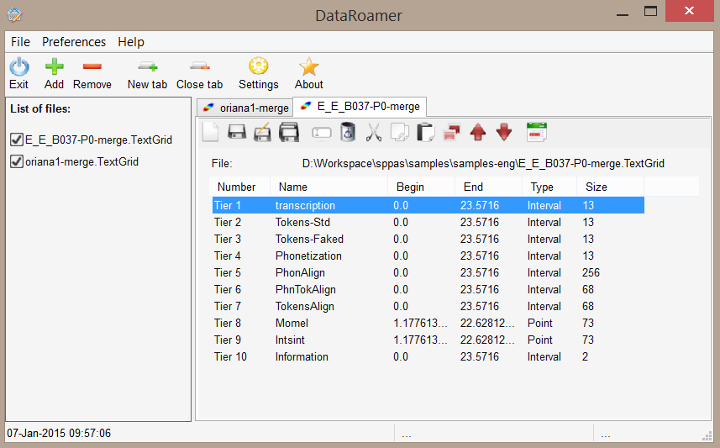
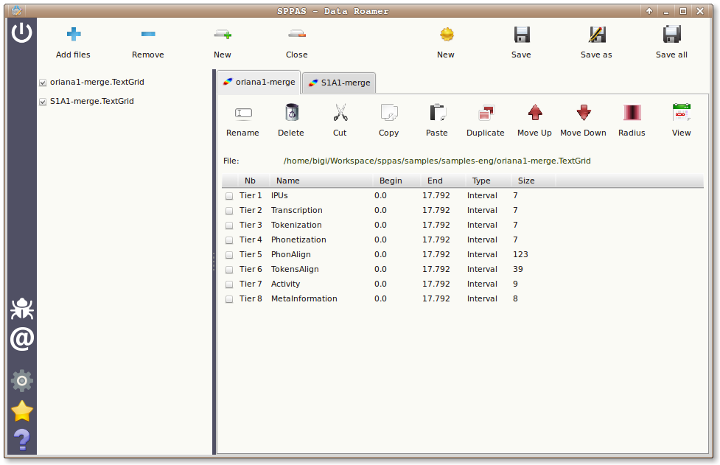
DataRoamer: bug correction.

Changed region(s): [[0.0, 0.0, 1.0, 1.0]]

diff --git a/sppas/src/wxgui/clients/dataroamerclient.py b/sppas/src/wxgui/clients/dataroamerclient.py
@@ -59,15 +59,13 @@ from wxgui.sp_icons import TIER_MOVE_DOWN
 from wxgui.sp_icons import TIER_PREVIEW
 from wxgui.sp_icons import TIER_RADIUS
 
-from wxgui.sp_consts import TB_ICONSIZE
-from wxgui.sp_consts import TB_FONTSIZE
-
 from wxgui.ui.CustomEvents  import FileWanderEvent, spEVT_FILE_WANDER
 from wxgui.ui.CustomEvents  import spEVT_PANEL_SELECTED
 from wxgui.ui.CustomEvents  import spEVT_SETTINGS
 
-from baseclient              import BaseClient
-from wxgui.panels.trslist    import TrsList
+from baseclient               import BaseClient
+from wxgui.panels.trslist     import TrsList
+from wxgui.panels.mainbuttons import MainToolbarPanel
 from wxgui.structs.files     import xFiles
 from wxgui.structs.prefs     import Preferences
 from wxgui.structs.themes    import BaseTheme
@@ -199,6 +197,7 @@ class DataRoamer( scrolled.ScrolledPanel ):
         self._selection  = None # the index of the selected trsdata panel
 
         self._prefsIO = self._check_prefs(prefsIO)
+        self.SetBackgroundColour(prefsIO.GetValue('M_BG_COLOUR'))
 
         # imitate the behavior of a toolbar, with buttons
         toolbar = self._create_toolbar()
@@ -212,6 +211,7 @@ class DataRoamer( scrolled.ScrolledPanel ):
         self.Bind(spEVT_PANEL_SELECTED, self.OnPanelSelection)
         self.Bind(spEVT_FILE_WANDER,    self.OnFileWander)
         self.Bind(spEVT_SETTINGS,       self.OnSettings)
+        self.Bind(wx.EVT_BUTTON,        self.ProcessEvent)
 
         self.SetSizer(sizer)
         self.SetAutoLayout( True )
@@ -249,33 +249,19 @@ class DataRoamer( scrolled.ScrolledPanel ):
 
     def _create_toolbar(self):
         """ Creates a toolbar panel. """
-        # Define the size of the icons and buttons
-        iconSize = (TB_ICONSIZE, TB_ICONSIZE)
 
-        toolbar = wx.ToolBar( self, -1 )
-        # Set the size of the buttons
-        toolbar.SetToolBitmapSize(iconSize)
-        toolbar.SetFont(wx.Font(TB_FONTSIZE, wx.DEFAULT, wx.NORMAL, wx.NORMAL))
+        toolbar = MainToolbarPanel(self, self._prefsIO)
+        toolbar.AddButton( RENAME_ID,    TIER_RENAME,   'Rename', tooltip="Rename the selected tier.")
+        toolbar.AddButton( wx.ID_DELETE, TIER_DELETE,   'Delete', tooltip="Delete the selected tier.")
+        toolbar.AddButton( wx.ID_CUT,    TIER_CUT,      'Cut',    tooltip="Cut the selected tier.")
+        toolbar.AddButton( wx.ID_COPY,   TIER_COPY,     "Copy",   tooltip="Copy the selected tier.")
+        toolbar.AddButton( wx.ID_PASTE,  TIER_PASTE,    "Paste",  tooltip="Paste the selected tier.")
+        toolbar.AddButton( DUPLICATE_ID, TIER_DUPLICATE,"Duplicate", tooltip="Duplicate the selected tier.")
+        toolbar.AddButton( wx.ID_UP,     TIER_MOVE_UP,  "Move Up",   tooltip="Move up the selected tier.")
+        toolbar.AddButton( wx.ID_DOWN,   TIER_MOVE_DOWN,"Move Down", tooltip="Move down the selected tier.")
 
-        toolbar.AddLabelTool(RENAME_ID,    'Rename',    spBitmap(TIER_RENAME, TB_ICONSIZE, theme=self._prefsIO.GetValue('M_ICON_THEME')),    shortHelp="Rename the selected tier")
-        toolbar.AddLabelTool(wx.ID_DELETE, 'Delete',    spBitmap(TIER_DELETE, TB_ICONSIZE, theme=self._prefsIO.GetValue('M_ICON_THEME')),    shortHelp="Delete the selected tier")
-        toolbar.AddLabelTool(wx.ID_CUT,    'Cut',       spBitmap(TIER_CUT,    TB_ICONSIZE, theme=self._prefsIO.GetValue('M_ICON_THEME')),    shortHelp="Cut the selected tier")
-        toolbar.AddLabelTool(wx.ID_COPY,   'Copy',      spBitmap(TIER_COPY,   TB_ICONSIZE, theme=self._prefsIO.GetValue('M_ICON_THEME')),    shortHelp="Copy the selected tier")
-        toolbar.AddLabelTool(wx.ID_PASTE,  'Paste',     spBitmap(TIER_PASTE,  TB_ICONSIZE, theme=self._prefsIO.GetValue('M_ICON_THEME')),    shortHelp="Paste the selected tier")
-        toolbar.AddLabelTool(DUPLICATE_ID, 'Duplicate', spBitmap(TIER_DUPLICATE, TB_ICONSIZE, theme=self._prefsIO.GetValue('M_ICON_THEME')), shortHelp="Duplicate the selected tier")
-        toolbar.AddLabelTool(wx.ID_UP,     'Move Up',   spBitmap(TIER_MOVE_UP,   TB_ICONSIZE, theme=self._prefsIO.GetValue('M_ICON_THEME')), shortHelp="Move up the selected tier")
-        toolbar.AddLabelTool(wx.ID_DOWN,   'Move Down', spBitmap(TIER_MOVE_DOWN, TB_ICONSIZE, theme=self._prefsIO.GetValue('M_ICON_THEME')), shortHelp="Move down the selected tier")
-        toolbar.AddSeparator()
-        toolbar.AddLabelTool(TIER_RADIUS_ID, 'Radius', spBitmap(TIER_RADIUS, TB_ICONSIZE, theme=self._prefsIO.GetValue('M_ICON_THEME')), shortHelp="Fix the vagueness of each boundary. Efficient only while saving file in .xra format.")
-        toolbar.AddSeparator()
-        toolbar.AddLabelTool(PREVIEW_ID,   'View',      spBitmap(TIER_PREVIEW, TB_ICONSIZE, theme=self._prefsIO.GetValue('M_ICON_THEME')),   shortHelp="Preview of the selected tier")
-
-        toolbar.Realize()
-
-        # events
-        eventslist = [ RENAME_ID, wx.ID_DELETE, wx.ID_CUT, wx.ID_COPY, wx.ID_PASTE, DUPLICATE_ID, wx.ID_UP, wx.ID_DOWN, PREVIEW_ID, TIER_RADIUS_ID ]
-        for event in eventslist:
-            wx.EVT_TOOL(self, event, self.ProcessEvent)
+        toolbar.AddButton( TIER_RADIUS_ID, TIER_RADIUS, "Radius", tooltip="Fix the vagueness of each boundary. Efficient only while saving file in .xra format.")
+        toolbar.AddButton( PREVIEW_ID,     TIER_PREVIEW, "View",   tooltip="Preview of the selected tier.")
 
         return toolbar
 

diff --git a/sppas/src/wxgui/panels/trslist.py b/sppas/src/wxgui/panels/trslist.py
@@ -196,7 +196,7 @@ class TrsList( wx.Panel ):
                 begin = str(tier.GetBeginValue())
                 end   = str(tier.GetEndValue())
 
-            self.tier_list.InsertStringItem(tier_idx, "%d"%(tier_idx+1))
+            self.tier_list.InsertStringItem(tier_idx, "Tier %d"%(tier_idx+1))
             self.tier_list.SetStringItem(tier_idx, 1, tier.GetName())
             self.tier_list.SetStringItem(tier_idx, 2, begin )
             self.tier_list.SetStringItem(tier_idx, 3, end )
